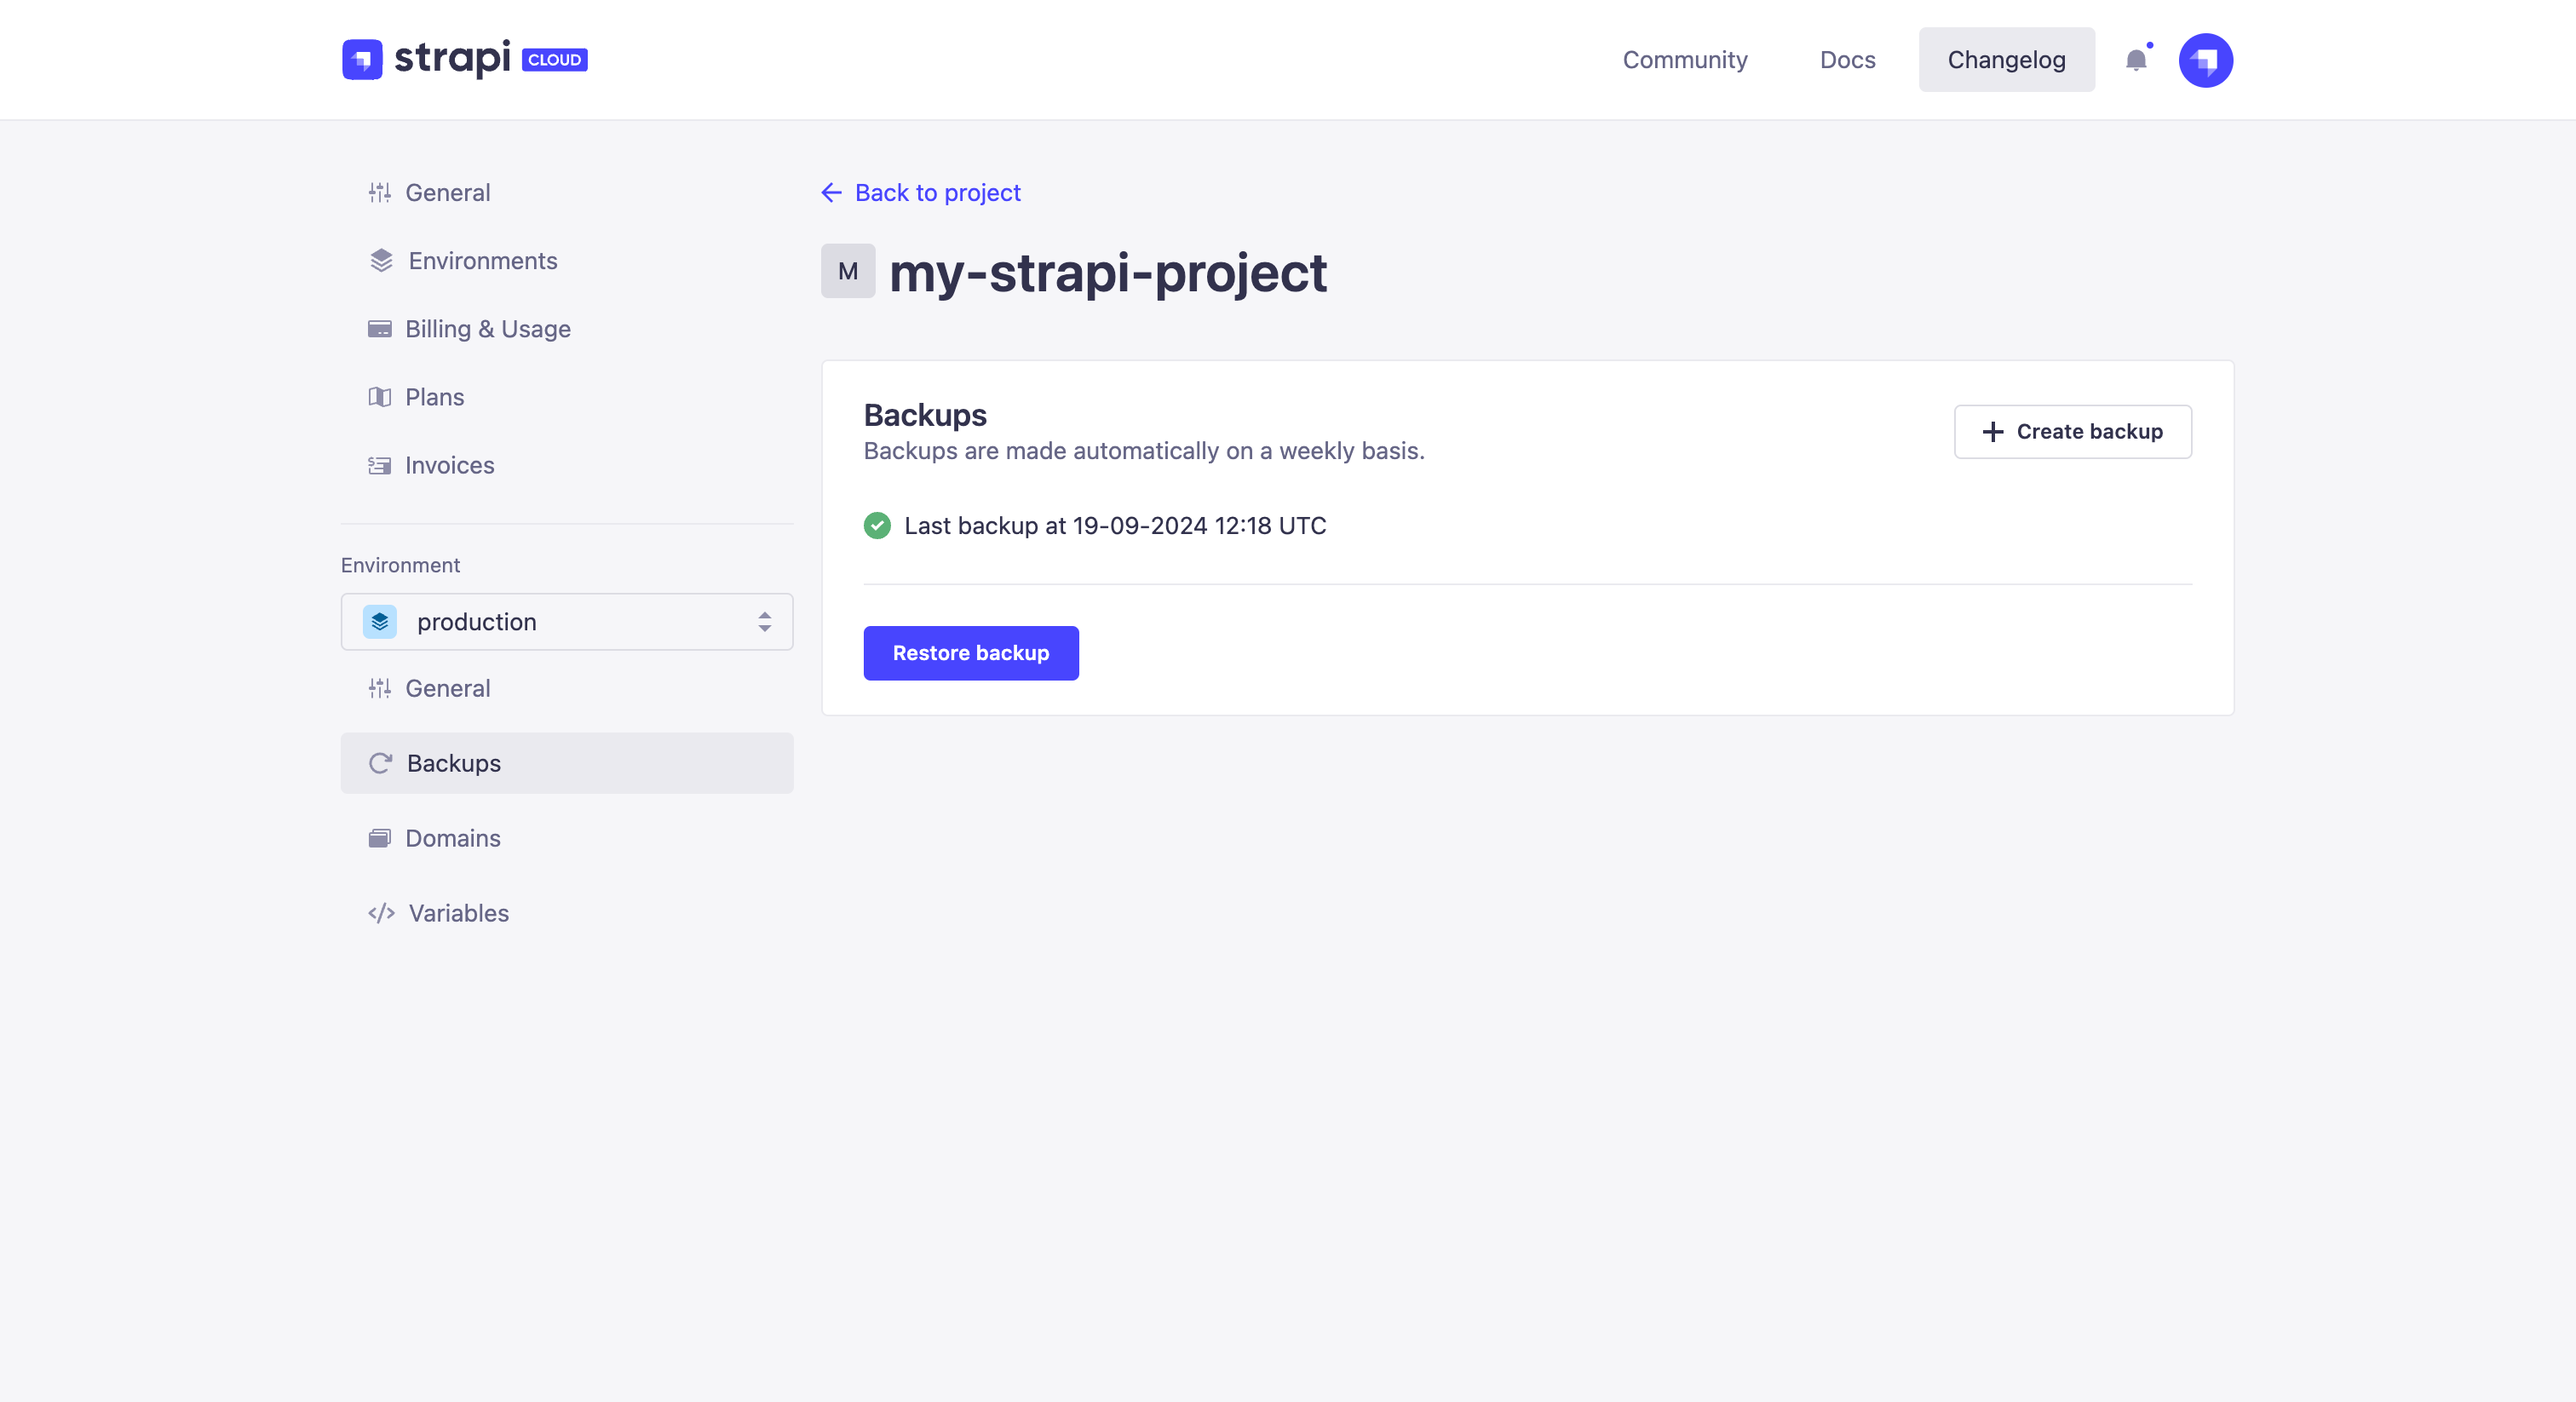
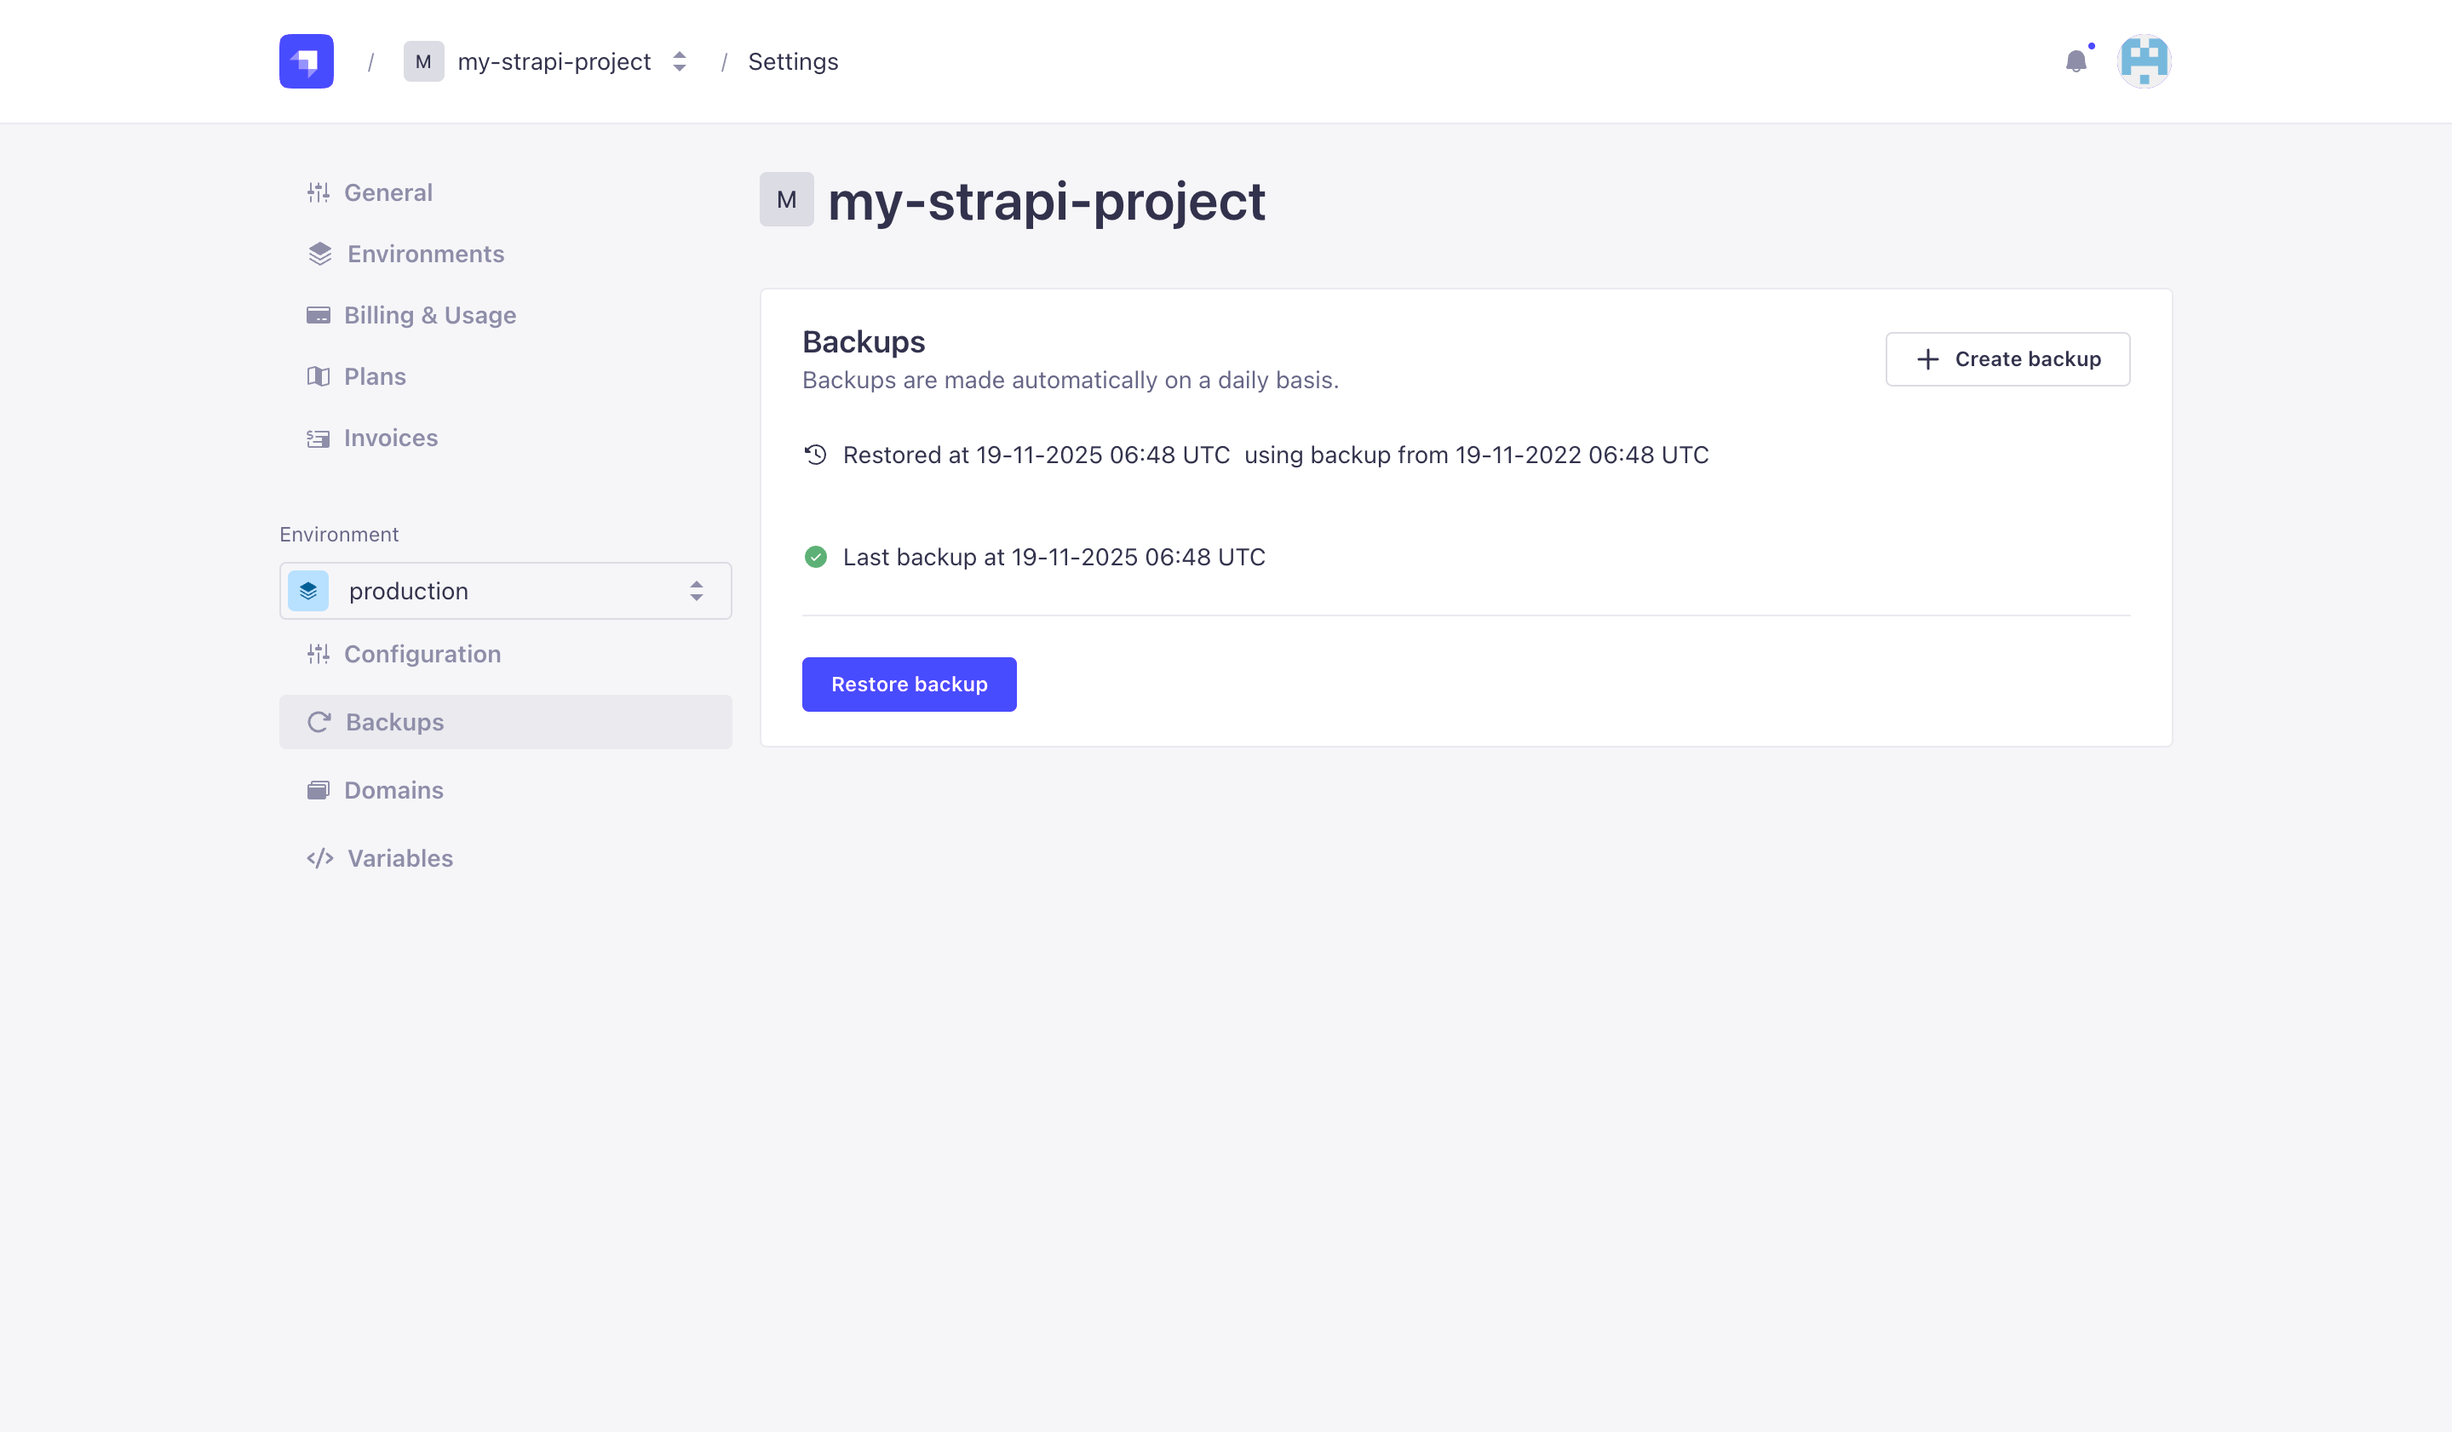
Port #2346

diff --git a/docusaurus/docs/cloud/projects/settings.md b/docusaurus/docs/cloud/projects/settings.md
@@ -355,9 +355,10 @@ When creating a new manual backup, any existing manual backup will be deleted. Y
 
 If you need to restore a backup of your project:
 
-1. In the ![Backups icon](/img/assets/icons/ArrowClockwise.svg) *Backups* section, click on the **Restore backup** button.
+1. In the <Icon name="arrow-clockwise" /> *Backups* section, click on the **Restore backup** button.
 2. In the dialog, choose one of the available backups (automatic or manual) of your project in the *Choose backup* drop-down.
-3. Click on the **Restore** button of the dialog. Once the restoration finished, your project will be back to the state it was at the time of the chosen backup.
+3. Click on the **Restore** button of the dialog. Once the restoration finished, your project will be back to the state it was at the time of the chosen backup. You will be able to see the restoration timestamp and the backup restored in the <Icon name="arrow-clockwise"/> *Backups* tab.
+4. The timestamp of the last completed restoration will be displayed to help you track when the project was last restored.
 
 ### Domains
 
